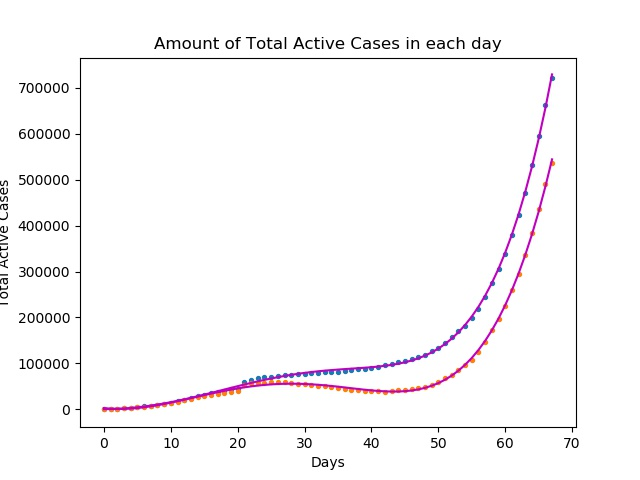
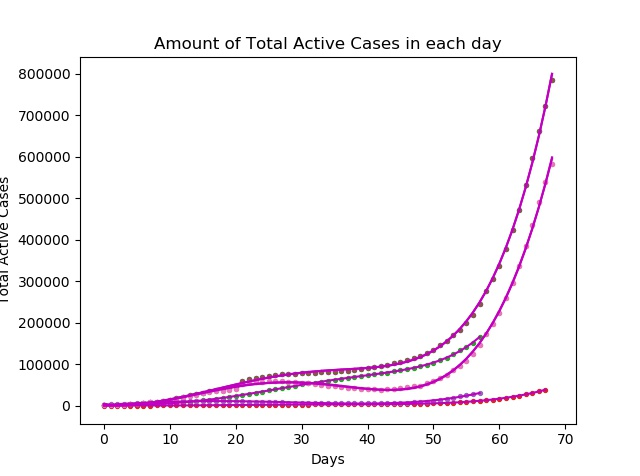
update 31/03/2020

diff --git a/README.md b/README.md
@@ -12,17 +12,17 @@ COVID-19, the disease that can result from the coronavirus worldwide new pandemi
 
 
 
-Our predictions for 30/03/2020 : 
+Our predictions for 31/03/2020 : 
 
-The predictions for Total Cases today is: 810275
+The predictions for Total Cases today is: 885928
 
-The predictions for Total Active Cases today is: 609432
+The predictions for Total Active Cases today is: 661058
 
-The predictions for Total Cured Cases today is: 165482
+The predictions for Total Cured Cases today is: 180193
 
-The predictions for Total Deaths  today is: 38566
+The predictions for Total Deaths  today is: 42846
 
-The predictions for Total Critical Cases  today is: 31026
+The predictions for Total Critical Cases  today is: 33994
 
 
 
@@ -33,7 +33,8 @@ The predictions for Total Critical Cases  today is: 31026
 
 |    Date    | Predicted Total Cases | Real Total Cases | Predicted Total Recovered | Real Total Recovered | Predicted  Total Deaths | Real Total Deaths | Predicted Active Cases | Real Active Cases | Predicted  Critical Cases | Real Critical Cases |
 | :--------: | :-------------------: | :--------------: | :-----------------------: | :------------------: | :---------------------: | :---------------: | :--------------------: | :---------------: | :-----------------------: | :-----------------: |
-| 30/03/2020 |        810275         |        ??        |          165482           |          ??          |          38566          |        ??         |         609432         |        ??         |           31026           |         ??          |
+| 31/03/2020 |        885928         |        ??        |          180193           |          ??          |          42846          |        ??         |         661058         |        ??         |           33994           |         ??          |
+| 30/03/2020 |        800275         |      784794      |          165482           |        165387        |          38566          |       37788       |         609432         |      581619       |           31026           |        29492        |
 | 29/03/2020 |        734521         |      722359      |          154244           |        151312        |          34630          |       33966       |         552194         |      537081       |           28076           |        26789        |
 | 28/03/2020 |        657402         |      663124      |          142905           |        141953        |          30679          |       30862       |         490167         |      490309       |           28023           |        25207        |
 | 27/03/2020 |        585682         |      596366      |          131516           |        133059        |          27113          |       27344       |         431739         |      435963       |           22463           |        23522        |
@@ -49,6 +50,9 @@ France Covid-19 total deaths Map as an example :
 ![Covid-19 total deaths Map](https://raw.githubusercontent.com/Manai-Hamza/COVID-19-Doomsday-Predictions/master/graphs/Covid%20Map.PNG)
 
 For more details, please visit : https://geodes.santepubliquefrance.fr/?view=map2&indics=covid_hospit.dc&serie=2020-03-28&f1code=0&lang=fr&iframe=1
+
+
+
 ## How to use
 
 1. Run `python install REQUIREMENTS.txt`
